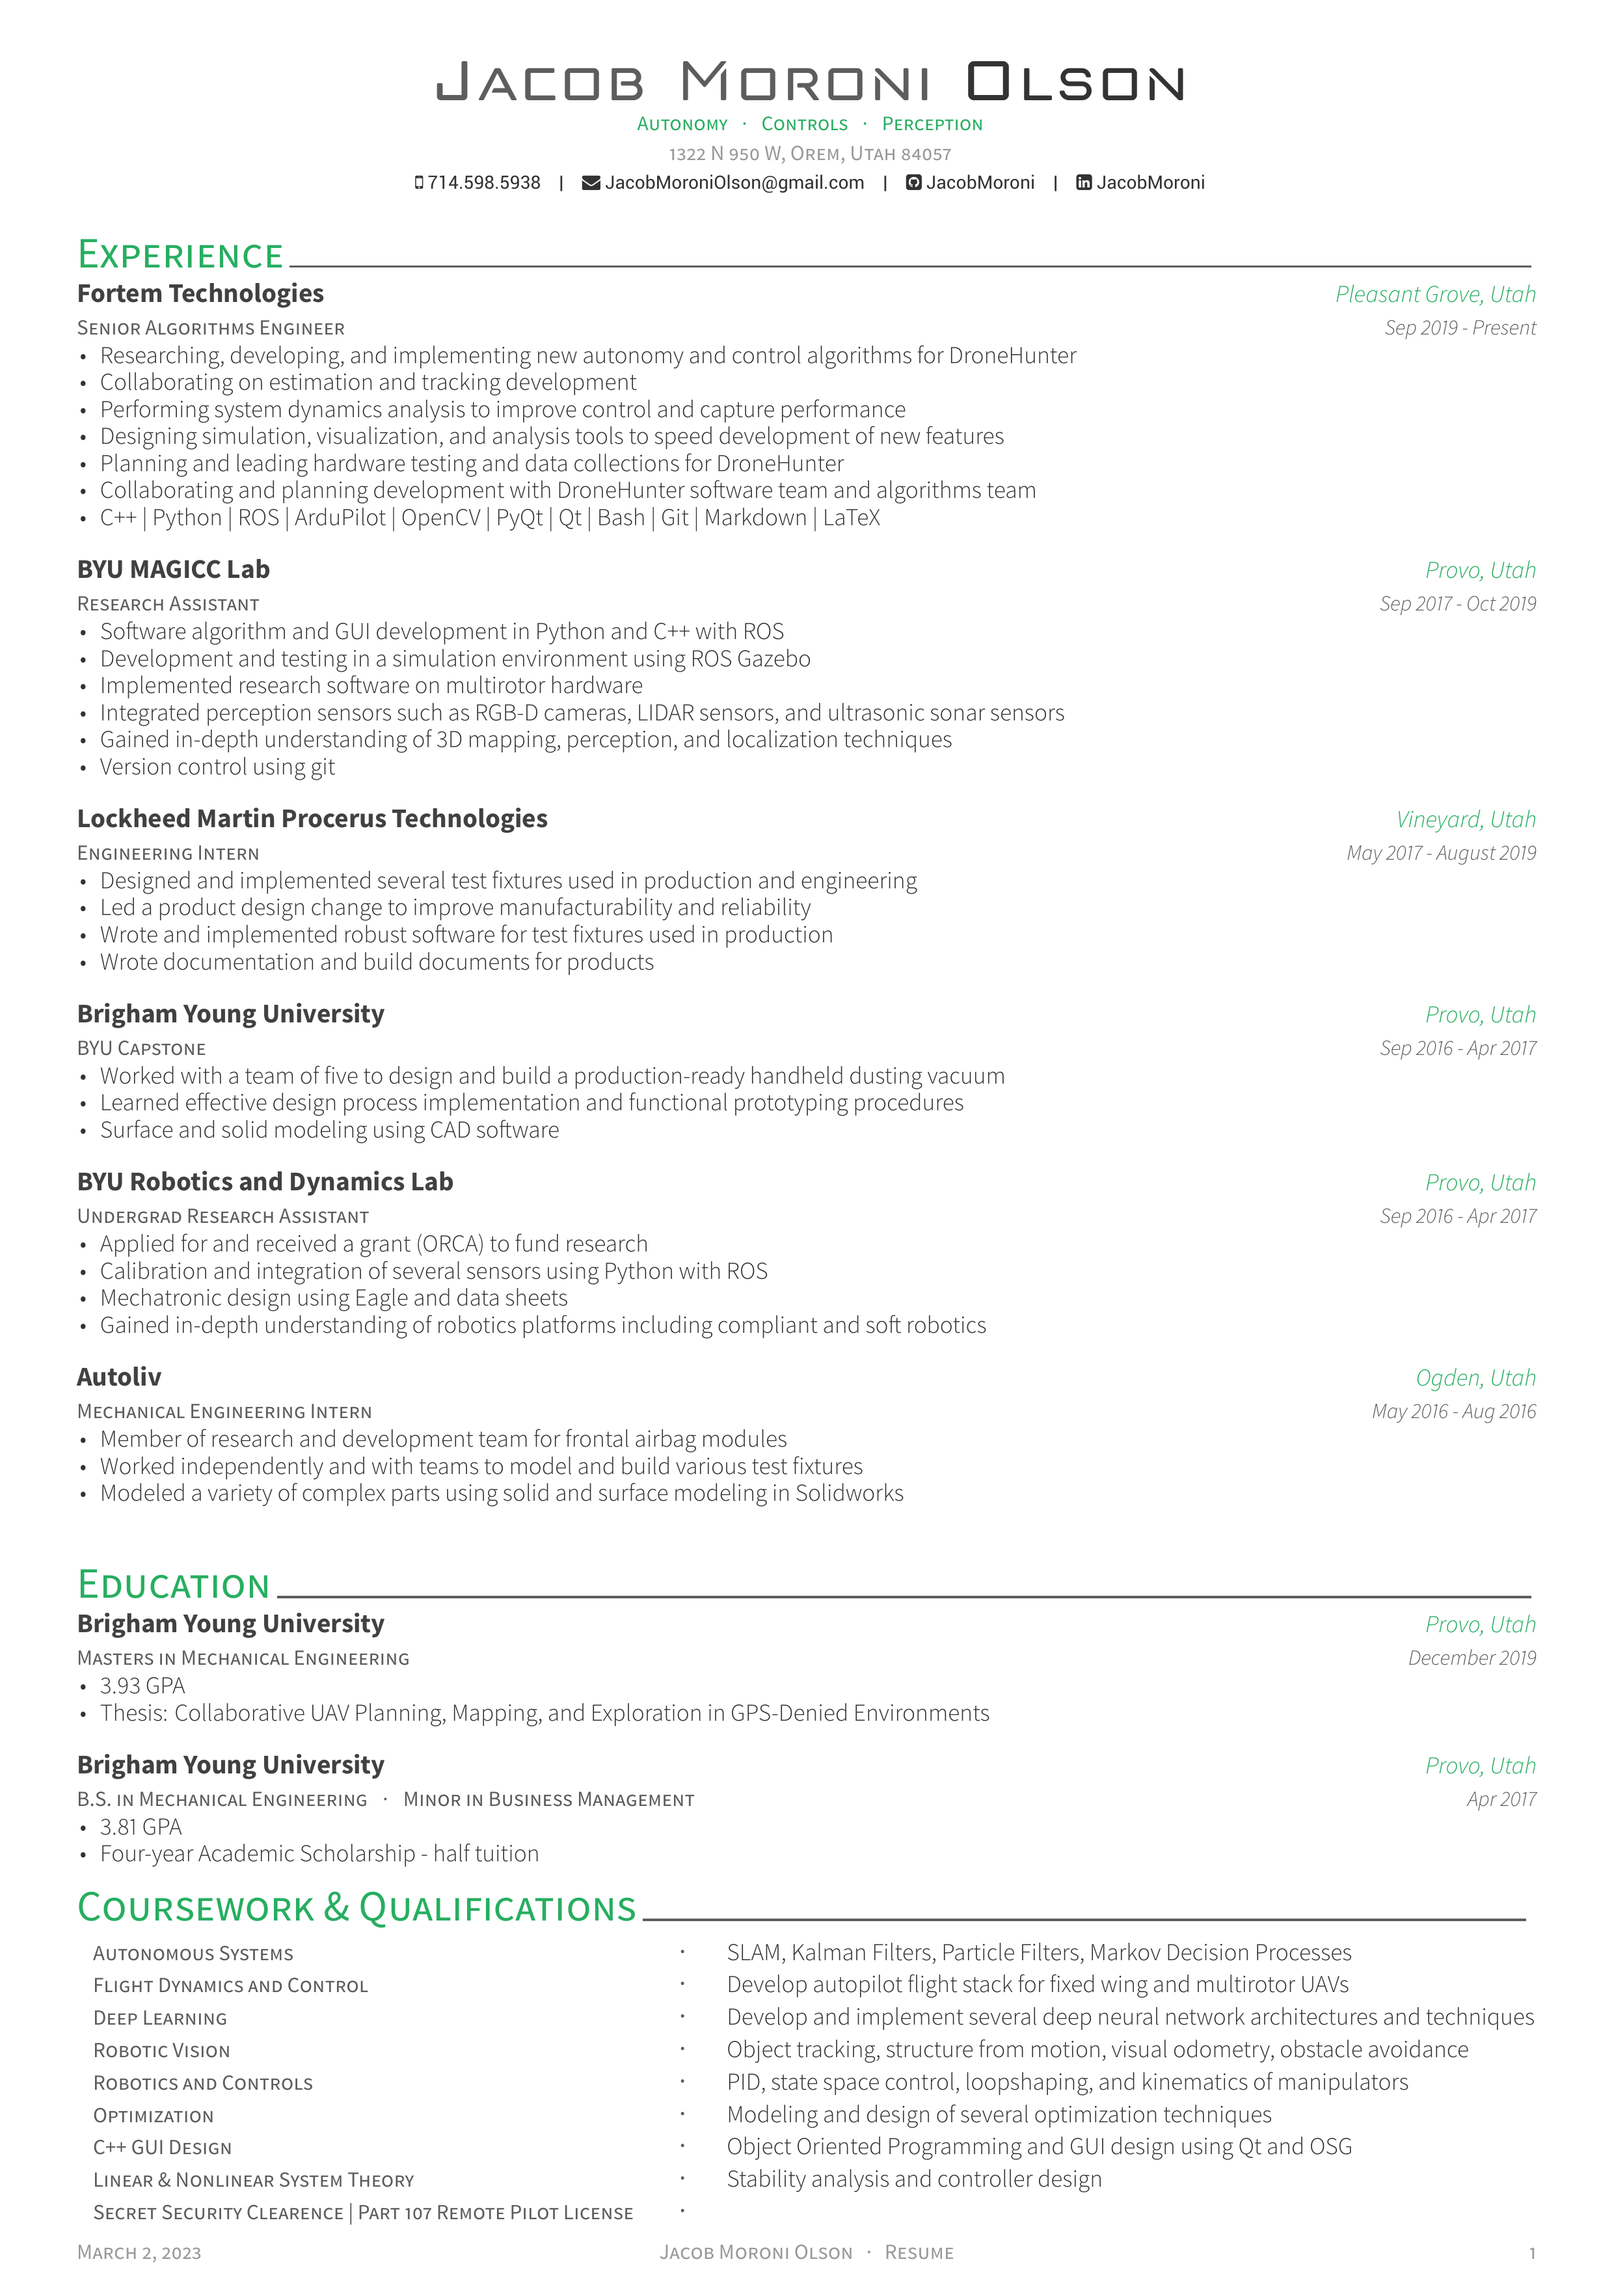
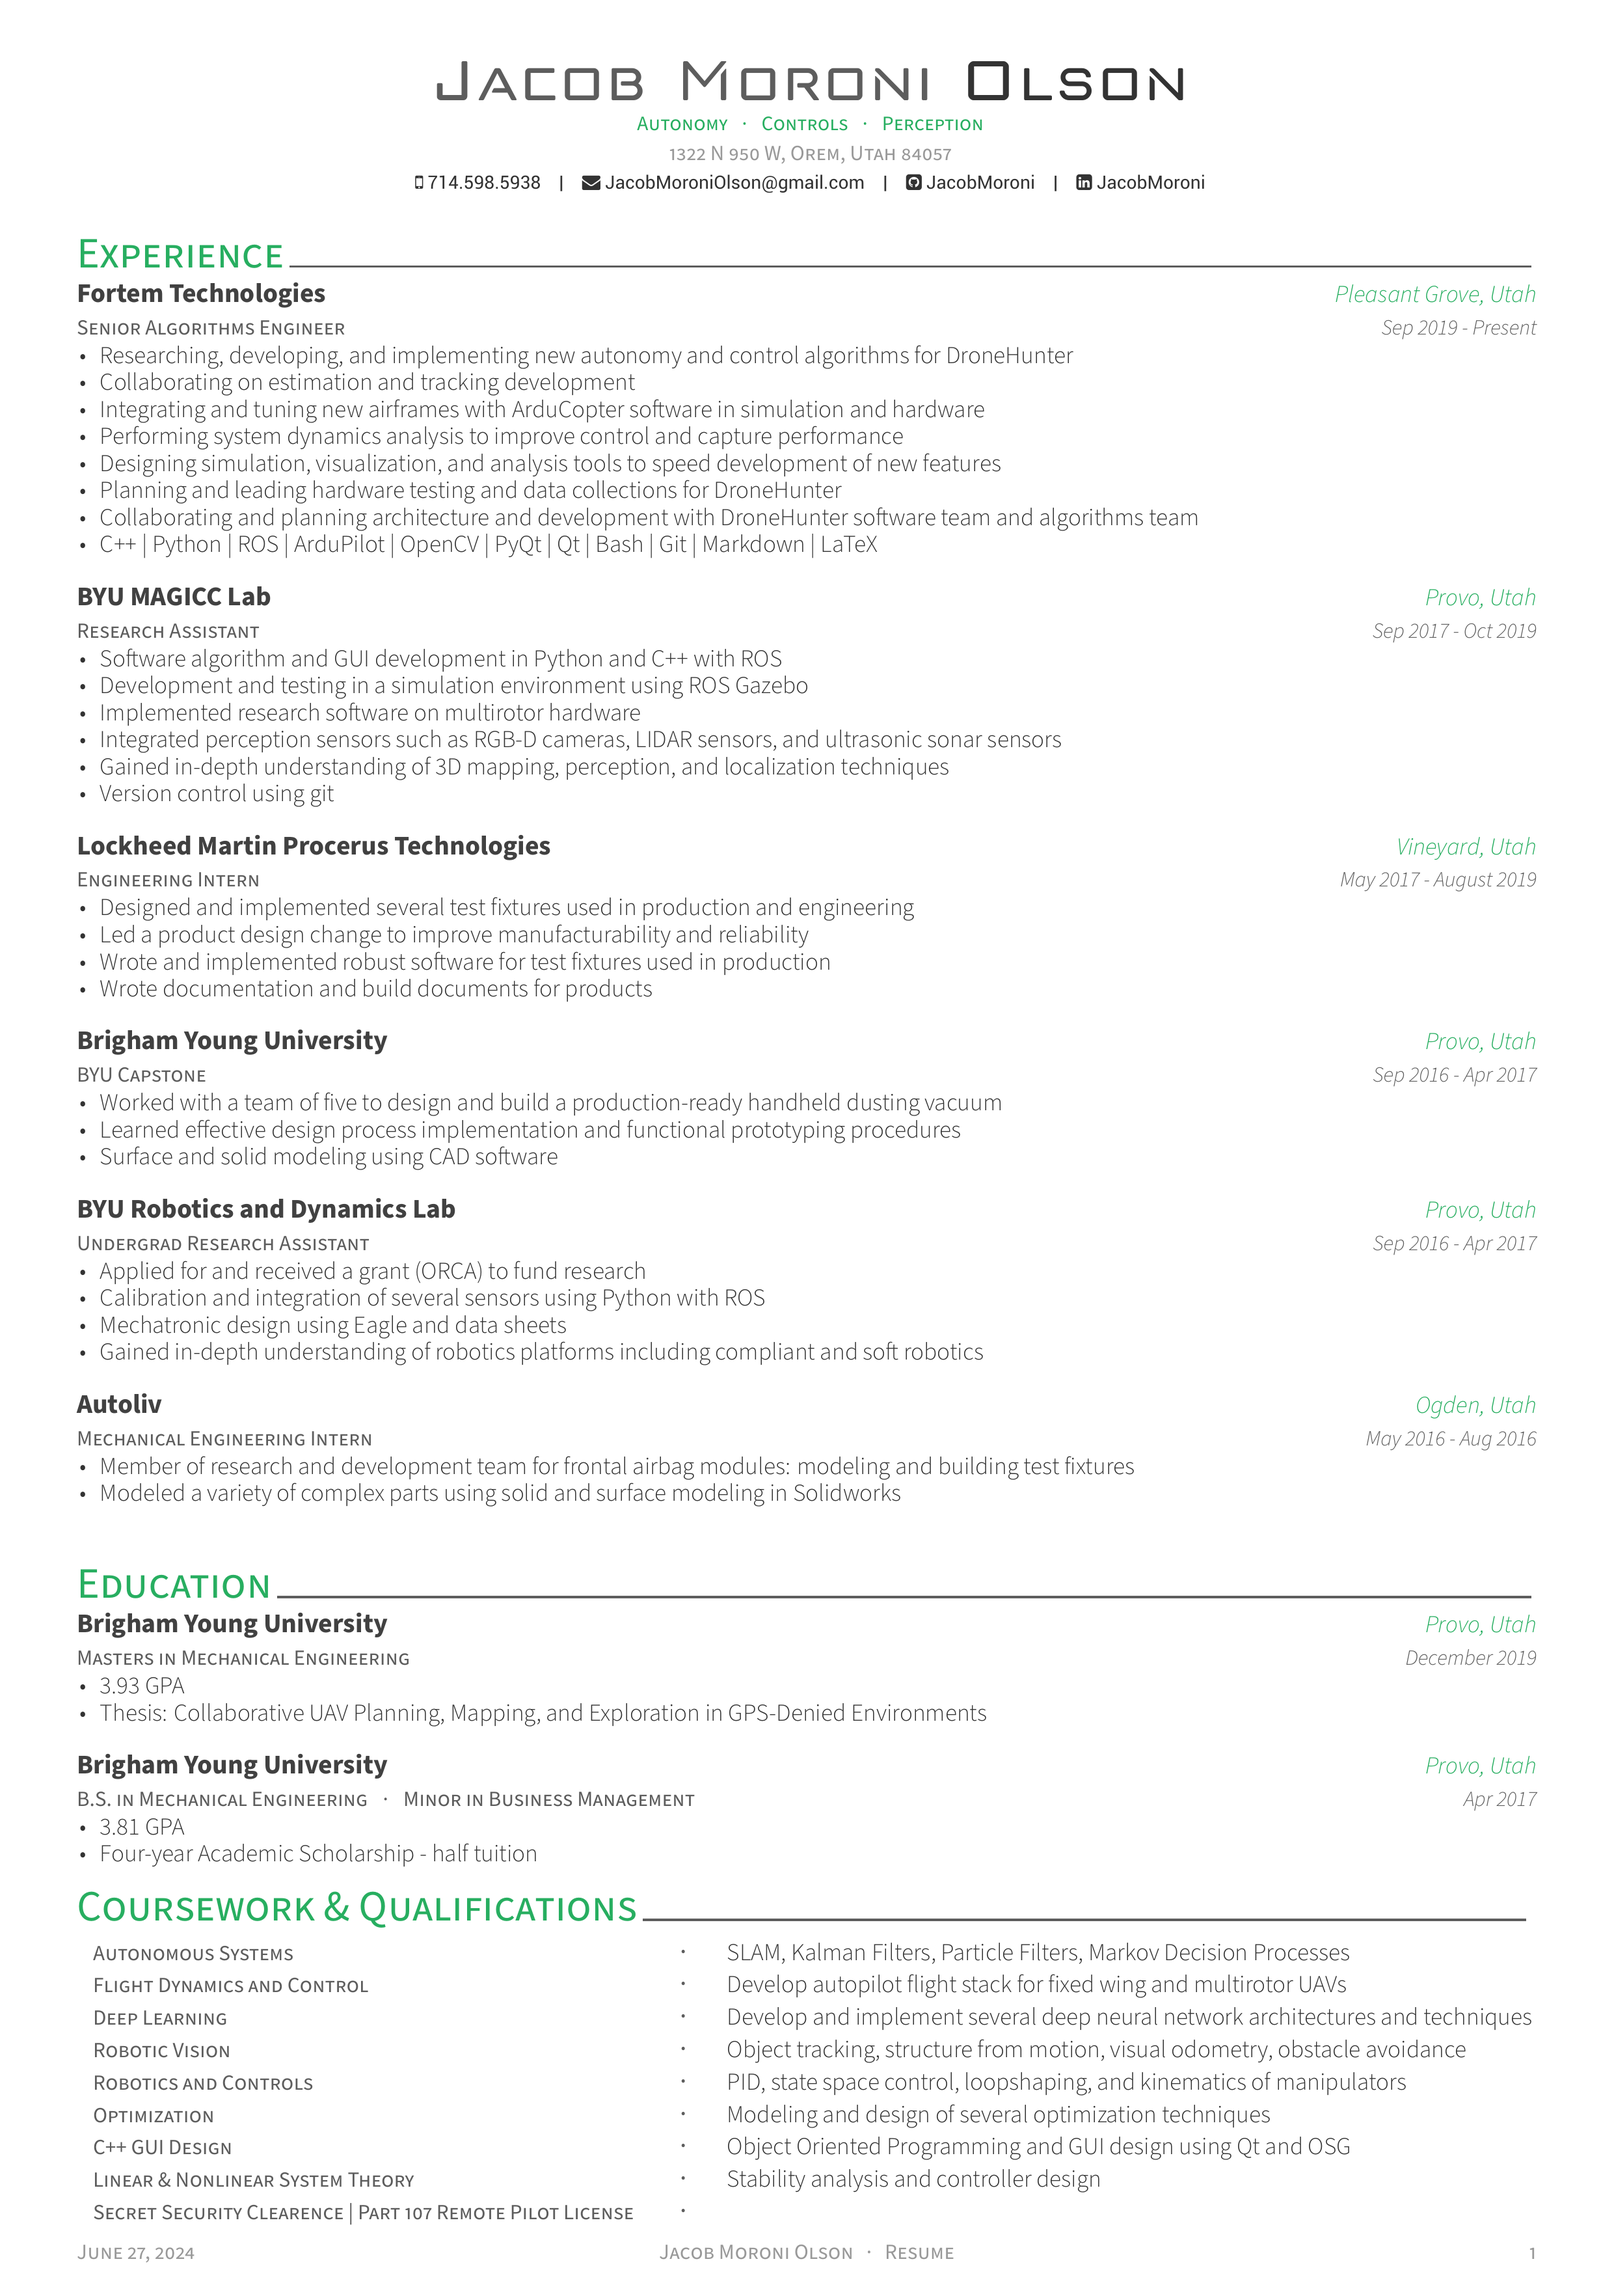
update

diff --git a/documents/resume/experience.tex b/documents/resume/experience.tex
@@ -18,10 +18,11 @@
     \begin{cvitems}
       \item{Researching, developing, and implementing new autonomy and control algorithms for DroneHunter}
       \item{Collaborating on estimation and tracking development}
+      \item{Integrating and tuning new airframes with ArduCopter software in simulation and hardware}
       \item{Performing system dynamics analysis to improve control and capture performance}
       \item{Designing simulation, visualization, and analysis tools to speed development of new features}
       \item{Planning and leading hardware testing and data collections for DroneHunter}
-      \item{Collaborating and planning development with DroneHunter software team and algorithms team}
+      \item{Collaborating and planning architecture and development with DroneHunter software team and algorithms team}
       \item{C++ | Python | ROS | ArduPilot | OpenCV | PyQt | Qt | Bash | Git | Markdown | LaTeX }
     \end{cvitems}
   }
@@ -110,8 +111,7 @@
     {May 2016 - Aug 2016} % Date(s)
     {
       \begin{cvitems} % Description(s) of tasks/responsibilities
-        \item {Member of research and development team for frontal airbag modules}
-        \item {Worked independently and with teams to model and build various test fixtures}
+        \item {Member of research and development team for frontal airbag modules: modeling and building test fixtures}
         \item {Modeled a variety of complex parts using solid and surface modeling in Solidworks}
       \end{cvitems}
     }
